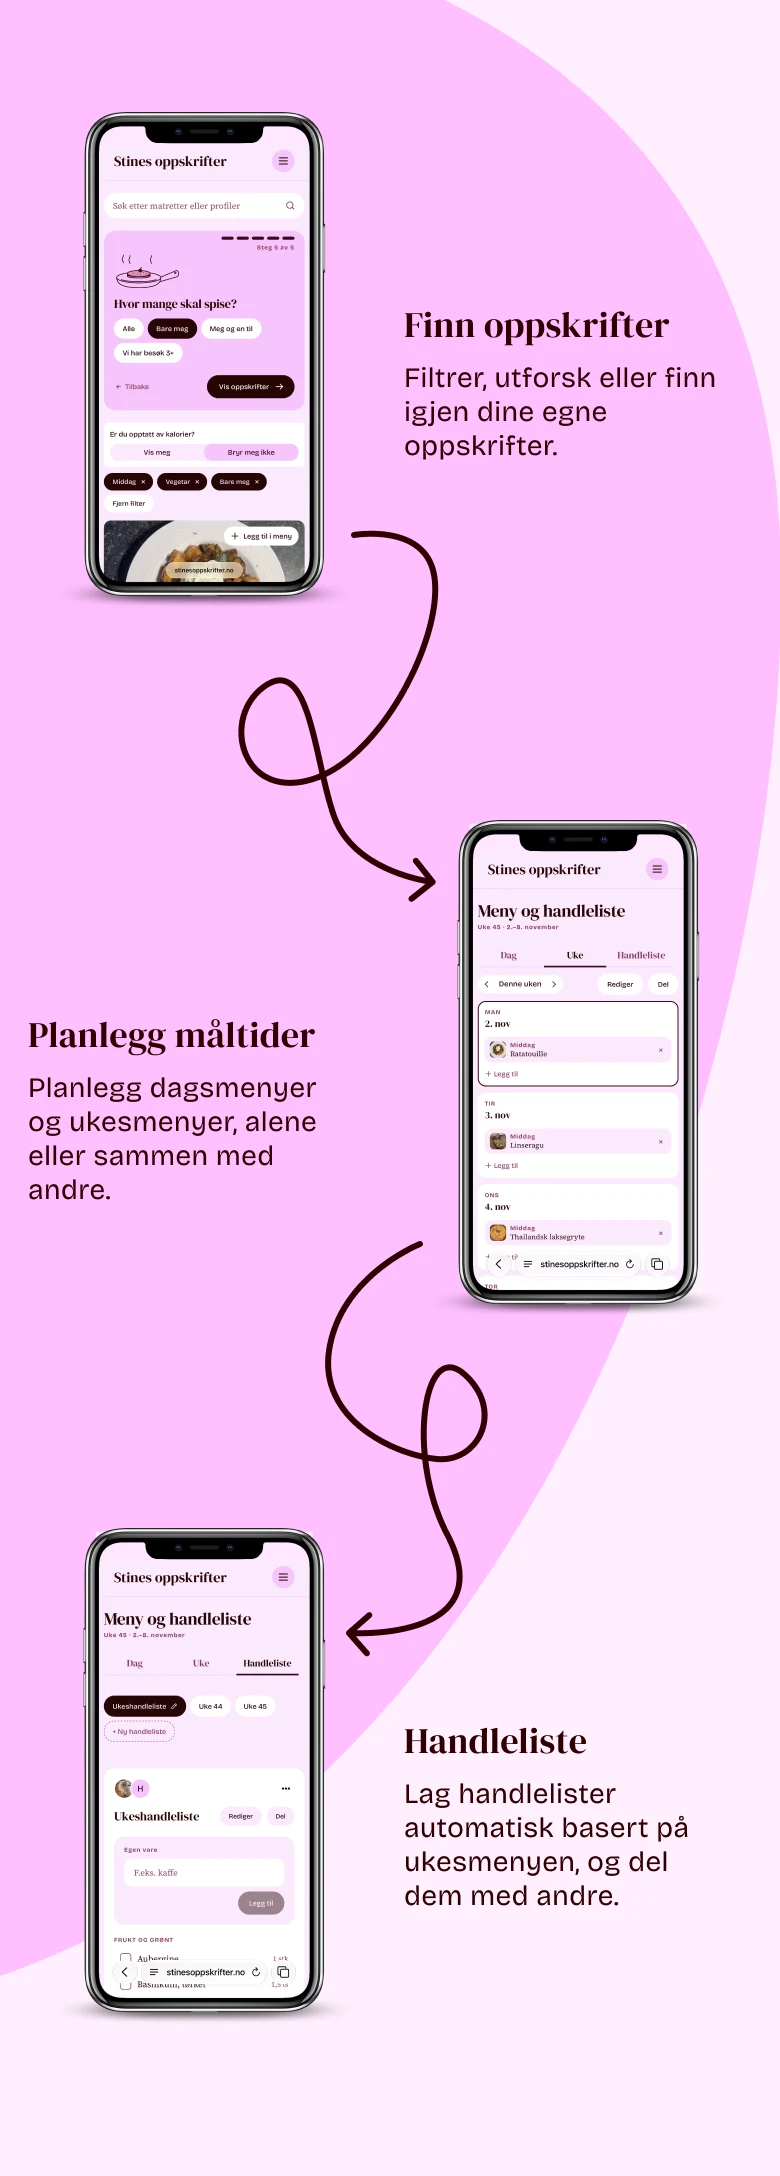
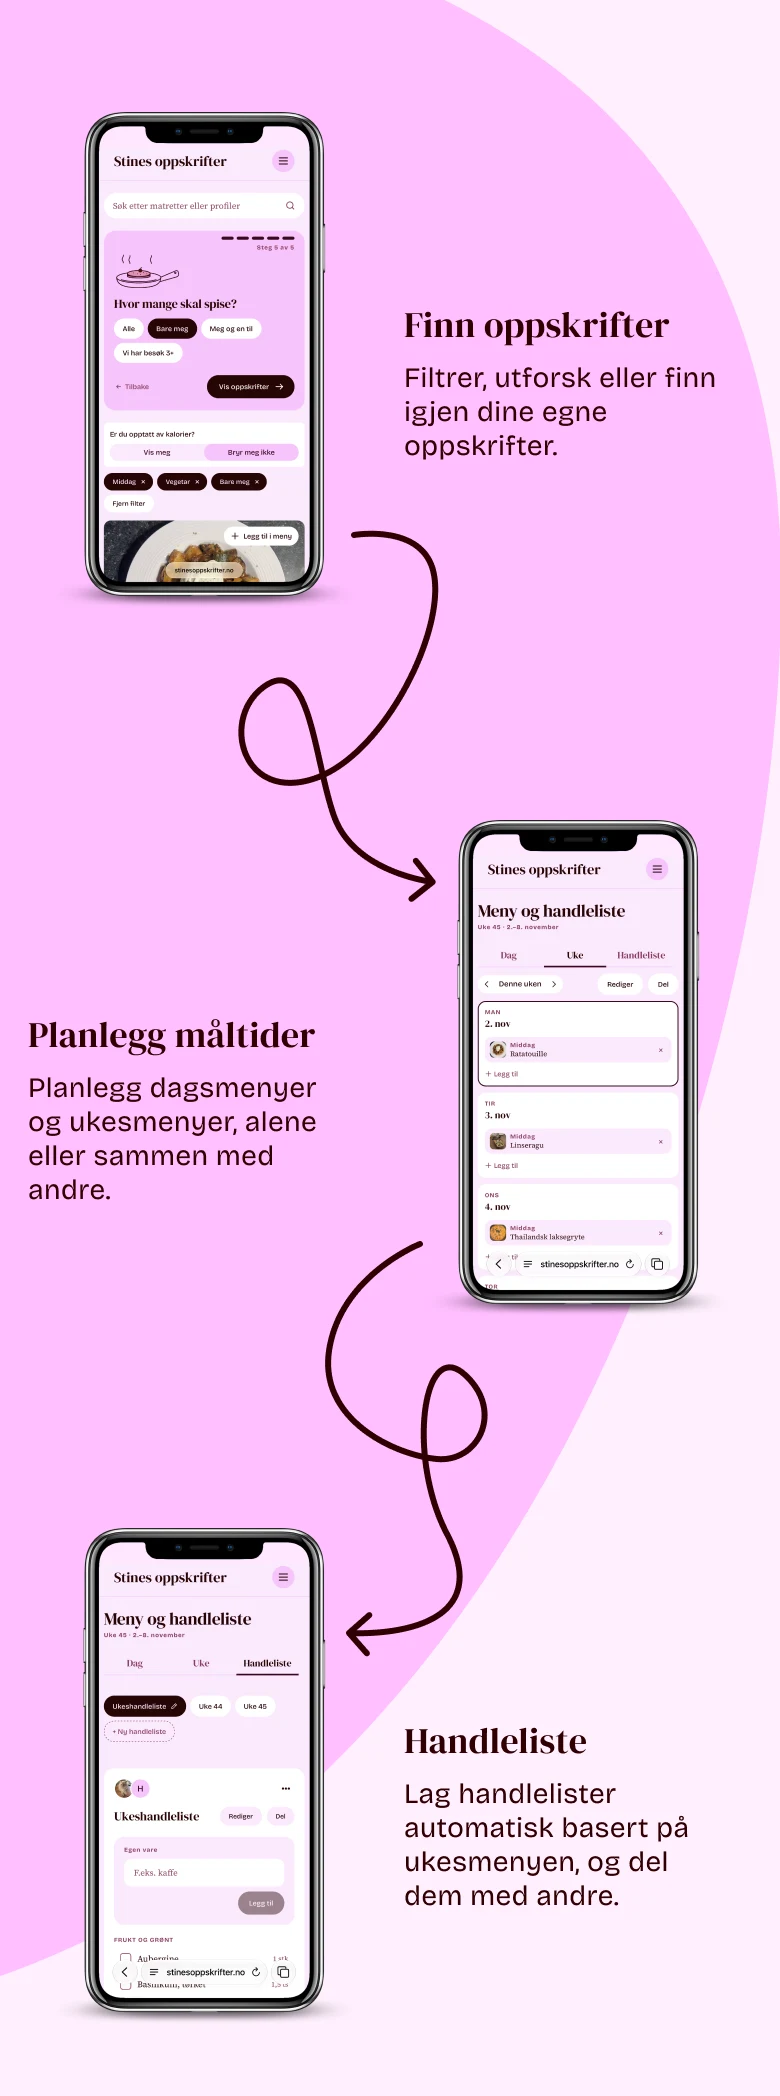
Image breaks on phones: balanced space above the image and below the caption; trim the empty bottom of the Stines oppskrifter mobile break image

diff --git a/app/components/case/Case.css b/app/components/case/Case.css
@@ -271,14 +271,6 @@
   margin: 0 auto;
 }
 
-/* The tall version for phones is shown at full height, not cut down to the
-   screen height */
-@media only screen and (max-width: 899px) {
-  .case-image-break-image {
-    max-height: none;
-  }
-}
-
 /* Image with space around it on the band, and narrower from 1400px so the
    chapter nav rests on the band and not on the image */
 .case-image-break-inset {
@@ -292,6 +284,28 @@
 @media only screen and (min-width: 1400px) {
   .case-image-break-inset .case-image-break-image {
     max-width: calc(100% - 20rem);
+  }
+}
+
+/* On phones the tall version is shown at full height, not cut down to the
+   screen height, and the band keeps about the same space above the image as
+   below the caption */
+@media only screen and (max-width: 899px) {
+  .case-image-break-image {
+    max-height: none;
+  }
+
+  .case-image-break .case-image-break-caption {
+    padding-top: 0.75rem;
+    padding-bottom: 1.5rem;
+  }
+
+  .case-image-break-inset {
+    padding-top: 2rem;
+  }
+
+  .case-image-break-inset .case-image-break-caption {
+    padding-bottom: 2rem;
   }
 }
 
